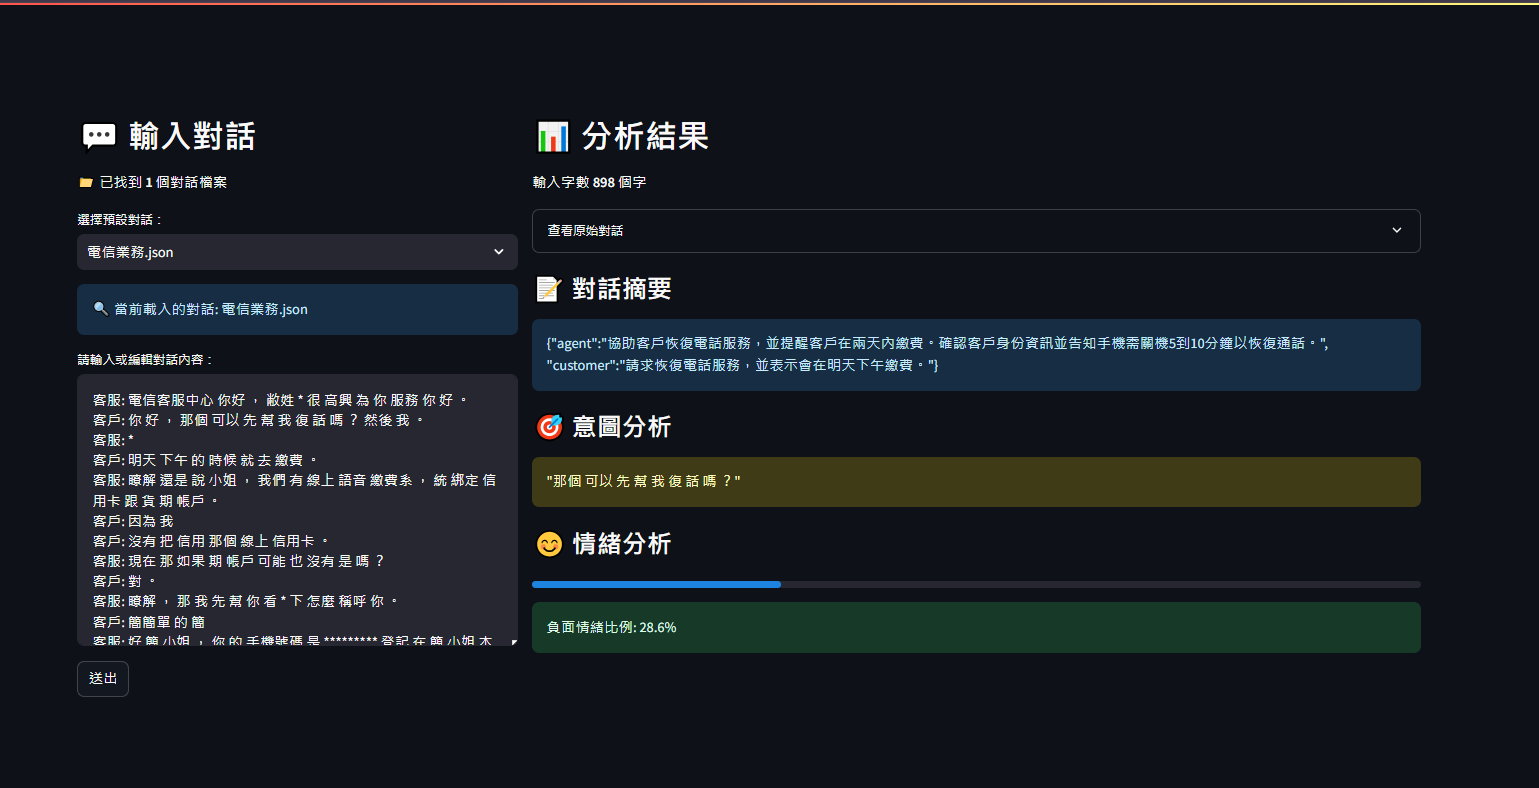
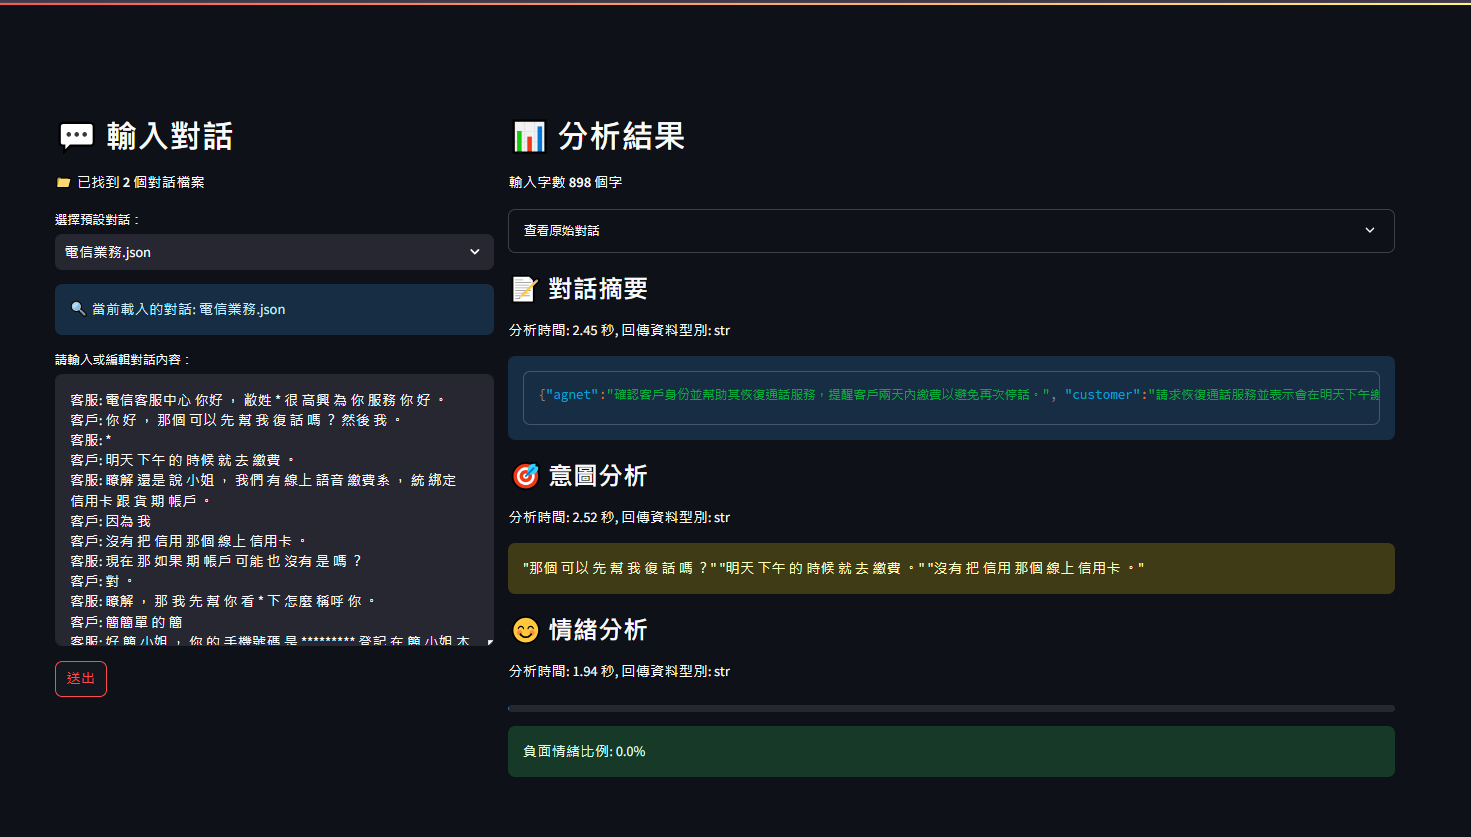
更新 app.py 中的 API URL 變數名稱以符合命名規範；新增對話範例 JSON 檔案；更新環境變數設定以反映 API URL 的變更；調整 get_flow_id.py 和 import_flow.py 中的 URL 讀取方式。

diff --git a/app.py b/app.py
@@ -13,9 +13,9 @@ st.set_page_config(page_title="對話輸入介面", layout="wide")
 load_dotenv("/app/env/app.env")
 
 # 從環境變數讀取所有 API URL
-langchain_api_url = os.getenv("LANGCHAIN_API_URL")  # 對話摘要
-langchain_api_url_2 = os.getenv("LANGCHAIN_API_URL_2")  # 意圖分析
-langchain_api_url_3 = os.getenv("LANGCHAIN_API_URL_3")  # 情緒分析
+langflow_api_1 = os.getenv("LANGFLOW_API_1")  # 對話摘要
+langflow_api_2 = os.getenv("LANGFLOW_API_2")  # 意圖分析
+langflow_api_3 = os.getenv("LANGFLOW_API_3")  # 情緒分析
 
 # 使用 CSS 調整頁面寬度
 st.markdown("""
@@ -98,7 +98,7 @@ with col1:
                 st.info("🔄 進行對話摘要分析...")
 
                 start_time = time.time()
-                response1 = requests.post(langchain_api_url, headers=headers, json=data)
+                response1 = requests.post(langflow_api_1, headers=headers, json=data)
                 response1.raise_for_status()
                 summary = response1.json()['outputs'][0]['outputs'][0]['results']['text'].get("text", "無法獲取對話摘要")
                 st.session_state.summary = summary
@@ -108,7 +108,7 @@ with col1:
                 # 意圖分析
                 st.info("🔄 進行意圖分析...")
                 start_time = time.time()
-                response2 = requests.post(langchain_api_url_2, headers=headers, json=data)
+                response2 = requests.post(langflow_api_2, headers=headers, json=data)
                 response2.raise_for_status()
                 intention = response2.json()['outputs'][0]['outputs'][0]['results']['text'].get("text", "無法獲取意圖分析")
                 st.session_state.intention = intention
@@ -118,7 +118,7 @@ with col1:
                 # 情緒分析
                 st.info("🔄 進行情緒分析...")
                 start_time = time.time()
-                response3 = requests.post(langchain_api_url_3, headers=headers, json=data)
+                response3 = requests.post(langflow_api_3, headers=headers, json=data)
                 response3.raise_for_status()
                 emotion = response3.json()['outputs'][0]['outputs'][0]['results']['text'].get("text", "無法獲取情緒分析")
                 st.session_state.emotion = emotion
@@ -150,22 +150,19 @@ with col2:
     if "summary" in st.session_state:
         with st.container():
             st.subheader("📝 對話摘要")
-            st.info(f"分析時間: {st.session_state.summary_time:.2f} 秒")
-            st.write(f"回傳資料型別: {st.session_state.summary_type}")
+            st.write(f"分析時間: {st.session_state.summary_time:.2f} 秒, 回傳資料型別: {st.session_state.summary_type}")
             st.info(st.session_state.summary)
 
     if "intention" in st.session_state:
         with st.container():
             st.subheader("🎯 意圖分析")
-            st.info(f"分析時間: {st.session_state.intention_time:.2f} 秒")
-            st.write(f"回傳資料型別: {st.session_state.intention_type}")
+            st.write(f"分析時間: {st.session_state.intention_time:.2f} 秒, 回傳資料型別: {st.session_state.intention_type}")
             st.warning(st.session_state.intention)
 
     if "emotion" in st.session_state:
         with st.container():
             st.subheader("😊 情緒分析")
-            st.info(f"分析時間: {st.session_state.emotion_time:.2f} 秒")
-            st.write(f"回傳資料型別: {st.session_state.emotion_type}")
+            st.write(f"分析時間: {st.session_state.emotion_time:.2f} 秒, 回傳資料型別: {st.session_state.emotion_type}")
             try:
                 # 解析情緒分析結果中的數值
                 emotion_value = float(st.session_state.emotion)

diff --git a/import_flow.py b/import_flow.py
@@ -1,13 +1,12 @@
 #!/usr/bin/env python
 # -*- coding: utf-8 -*-
-
 import requests
 import json
 import os
 import time
 
-
-URL="http://langflow:7860"
+# 從環境變數讀取所有 API URL
+URL = os.getenv("LANGFLOW_URL")
 
 def wait_for_langflow():
     max_retries = 30

diff --git a/get_flow_id.py b/get_flow_id.py
@@ -4,7 +4,8 @@
 import requests
 import json
 
-URL="http://langflow:7860"
+# 從環境變數讀取 URL
+URL = os.getenv("LANGFLOW_URL")
 
 def get_flows():
     """獲取所有 flows 的資訊"""
